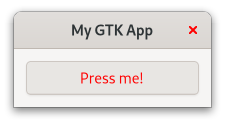
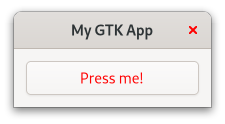
book: Continue with css chapter

Changed region(s): [[0.1244, 0.75, 0.8711, 0.7742]]

diff --git a/book/listings/todo_app/3/style.css b/book/listings/todo_app/3/style.css
@@ -1,3 +1,3 @@
-.todo_row {
-  border: 1px solid @borders;
+box.todo_row {
+  border: 1px solid gray;
 }

diff --git a/book/listings/css/2/style.css b/book/listings/css/2/style.css
@@ -1,8 +1,3 @@
 button.text-button {
   color: red;
 }
-
-button.image-button {
-  color: blue;
-}
-

diff --git a/book/listings/css/2/main.rs b/book/listings/css/2/main.rs
@@ -30,29 +30,21 @@ fn load_css() {
     );
 }
 
-// ANCHOR: build_ui
 fn build_ui(app: &Application) {
-    // Create buttons
-    let button_1 = Button::with_label("Press me!");
-    let button_2 = Button::from_icon_name(Some("edit-find-symbolic"));
-
-    // Create `gtk_box` and add buttons
-    let gtk_box = gtk::Box::builder()
+    // Create button
+    let button = Button::builder()
+        .label("Press me!")
         .margin_top(12)
         .margin_bottom(12)
         .margin_start(12)
         .margin_end(12)
-        .spacing(12)
         .build();
-    gtk_box.append(&button_1);
-    gtk_box.append(&button_2);
 
     // Create a new window and show it
     let window = ApplicationWindow::builder()
         .application(app)
         .title("My GTK App")
-        .child(&gtk_box)
+        .child(&button)
         .build();
     window.show();
 }
-// ANCHOR_END: build_ui

diff --git a/book/listings/css/3/main.rs b/book/listings/css/3/main.rs
@@ -30,6 +30,7 @@ fn load_css() {
     );
 }
 
+// ANCHOR: build_ui
 fn build_ui(app: &Application) {
     // ANCHOR: buttons
     // Create buttons
@@ -58,3 +59,4 @@ fn build_ui(app: &Application) {
         .build();
     window.show();
 }
+// ANCHOR_END: build_ui

diff --git a/book/src/css.md b/book/src/css.md
@@ -44,13 +44,7 @@ If you are not already familiar with CSS, now would be a good time to make yours
 ### Classes Applied by GTK
 
 
-[Icon Library](https://apps.gnome.org/de/app/org.gnome.design.IconLibrary/)
 
-<span class="filename">Filename: listings/css/2/main.rs</span>
-
-```rust ,no_run,noplayground
-{{#rustdoc_include ../listings/css/2/main.rs:build_ui}}
-```
 
 <span class="filename">Filename: listings/css/2/style.css</span>
 
@@ -61,6 +55,13 @@ If you are not already familiar with CSS, now would be a good time to make yours
 <div style="text-align:center"><img src="img/css_2.png"/></div>
 
 ### Classes Applied Manually
+
+<span class="filename">Filename: listings/css/3/main.rs</span>
+
+```rust ,no_run,noplayground
+{{#rustdoc_include ../listings/css/3/main.rs:build_ui}}
+```
+
 
 
 <span class="filename">Filename: listings/css/3/main.rs</span>
@@ -120,6 +121,9 @@ Your browser does not support the video tag.
 
 ## Nodes
 
+[Icon Library](https://apps.gnome.org/de/app/org.gnome.design.IconLibrary/)
+
+
 <span class="filename">Filename: listings/css/7/window/window.ui</span>
 
 ```xml
@@ -144,3 +148,20 @@ Your browser does not support the video tag.
 ```
 
 <div style="text-align:center"><img src="img/css_8.png"/></div>
+
+
+## To-Do App
+
+<span class="filename">Filename: listings/todo_app/3/todo_row/todo_row.ui</span>
+
+```xml
+{{#rustdoc_include ../listings/todo_app/3/todo_row/todo_row.ui}}
+```
+
+<span class="filename">Filename: listings/todo_app/3/style.css</span>
+
+```css
+{{#rustdoc_include ../listings/todo_app/3/style.css}}
+```
+
+<div style="text-align:center"><img src="img/todo_app_3_border.png"/></div>
